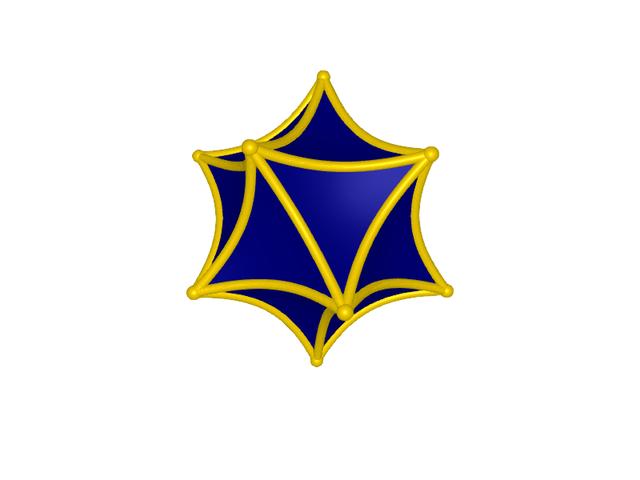
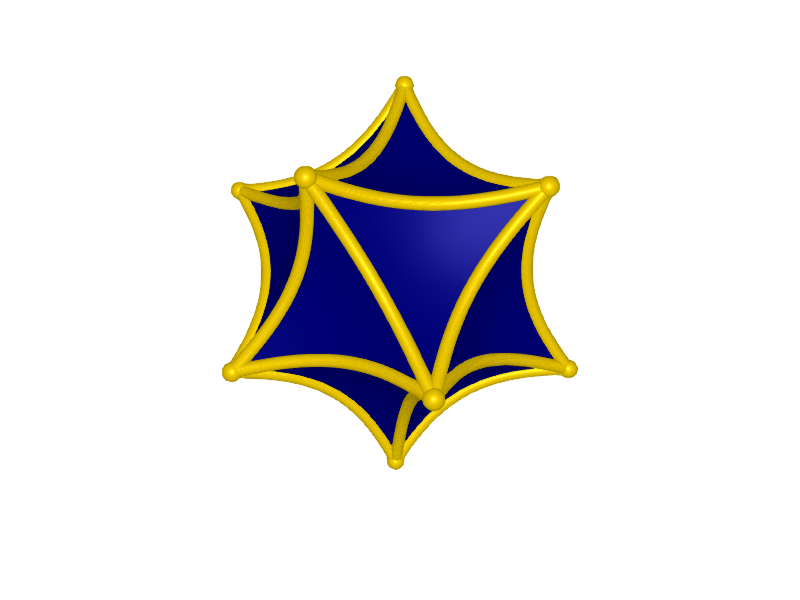
MeshesJLgalleryHyperbolicIcosahedronGIF

Changed region(s): [[0.2812, 0.125, 0.7188, 0.7812]]

diff --git a/posts/MeshesJLgallery.html b/posts/MeshesJLgallery.html
@@ -123,6 +123,8 @@
 <h3 id="hyperbolic-icosahedron">Hyperbolic icosahedron</h3>
 <p>It is constructed with the help of the <a href="https://laustep.github.io/stlahblog/posts/hyperbolicPolyhedra.html">gyrovector space theory</a>.</p>
 <p><img src="./figures/jl_gyroIcosahedron.png" /></p>
+<p>One can change the hyperbolic curvature:</p>
+<p><img src="./figures/jl_gyroIcosahedron.gif" /></p>
 <p><a href="https://gist.github.com/stla/5a854243fa64290ec8dc0780db29ef34">Code</a></p>
 <h3 id="linked-cyclides">Linked cyclides</h3>
 <p>Now we switch to the 4D world. Here are three linked cyclides.</p>
